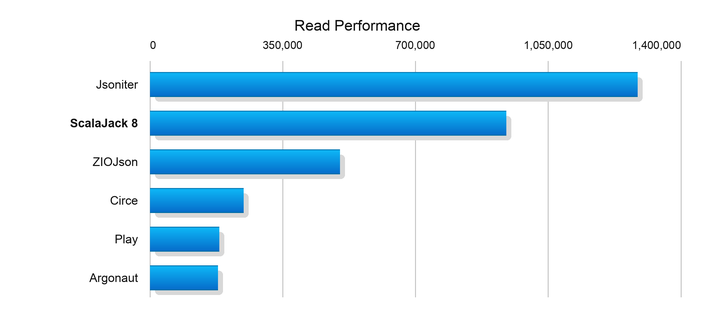
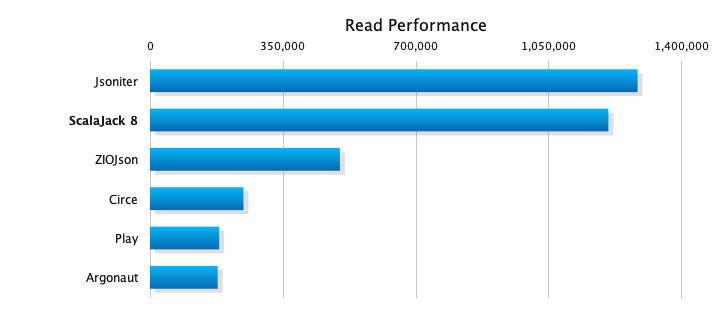
Update benchmark results after read optimizations

diff --git a/benchmark/README.md b/benchmark/README.md
@@ -17,7 +17,7 @@ sbt "jmh:run -i 10 -wi 10 -f 2 -t 1 co.blocke.*"
 | Benchmark        | Mode  | Count  |           Score |        Error | Units |
 |------------------|-------|-------:|----------------:|-------------:|-------|
 | Jsoniter         | thrpt |  20    |    1285501.352  |  ±  3973.802 | ops/s |
-| **ScalaJack 8**  | thrpt |  20    |   **938626.911**|  ± 31604.383 | ops/s |
+| **ScalaJack 8**  | thrpt |  20    |  **1208555.067**|  ± 26366.803 | ops/s |
 | ZIOJson          | thrpt |  20    |     500670.465  |  ±  8604.498 | ops/s |
 | Circe            | thrpt |  20    |     246376.846  |  ± 10817.595 | ops/s |
 | Play             | thrpt |  20    |     182401.796  |  ±  3159.044 | ops/s |
@@ -29,9 +29,9 @@ sbt "jmh:run -i 10 -wi 10 -f 2 -t 1 co.blocke.*"
 
 | Benchmark        | Mode  | Count  |           Score |        Error | Units |
 |------------------|-------|-------:|----------------:|-------------:|-------|
-|**ScalaJack 8 no escaped chars in String**   | thrpt |  20    | **4822161.717** |  ± 20998.956 | ops/s |
+|**ScalaJack 8 no escaped chars in String**   | thrpt |  20    | **4797572.801** | ± 173616.527 | ops/s |
+|**ScalaJack 8**   | thrpt |  20    | **2833993.184** |  ± 11502.335 | ops/s |
 | Jsoniter         | thrpt |  20    |     2766735.258 |  ±  3799.236 | ops/s |
-|**ScalaJack 8**   | thrpt |  20    | **2760896.986** |  ± 63233.995 | ops/s |
 | Hand-Tooled      | thrpt |  20    |     2250699.414 |  ±  8306.760 | ops/s |
 | Circe            | thrpt |  20    |     1738226.269 |  ± 26064.329 | ops/s |
 | ZIO JSON         | thrpt |  20    |      722061.218 |  ±  8337.419 | ops/s |
@@ -105,12 +105,8 @@ enough is enough for you.  Here's a partial list of learnings incorporated into 
   speed is your goal. The generated code may look kludgy and have extra cruft in it. Rework your 
   macros carefully until the generated code is as smooth as you might write by hand.  
 
-After all the performance tunings and learnings, I was able to meet or beat Jsoniter for writing
-speed.  For reading I made a number of very substantial improvements, but there is still a 
-substantial performance gap between Jsoniter's reads and ScalaJack's, and for the life of me I can't
-figure out what's driving that difference.  The generated code is very similar.  Json parsing should
-be similar--in fact in some ways ScalaJack's should be faster.  Although micro-benchmarks indicate
-match/case is significantly slower in generated code than if/than/else, but in practice replacing 
-these with if/else didn't gain ScalaJack a thing.  Jsoniter has some tricky ByteArrayAccess code 
-that looks very low-level and clever, but when I benchmarked it, the gains seemed nominal to none 
-in my use case.  I dunno--If anyone has any ideas, please drop a comment in the Issues in repo!
+After all the performance tuning and learning, ScalaJack meets or beats Jsoniter for writing speed.
+A major Reader refactor initially introduced a severe read-performance regression relative to 8.0.0.
+Correcting that regression and adding several general hot-path improvements put reads ahead
+of the 8.0.0 baseline and narrowed the gap to Jsoniter considerably.  Jsoniter still leads the mixed
+record benchmark shown here, but the difference is now small rather than architectural in scale.
